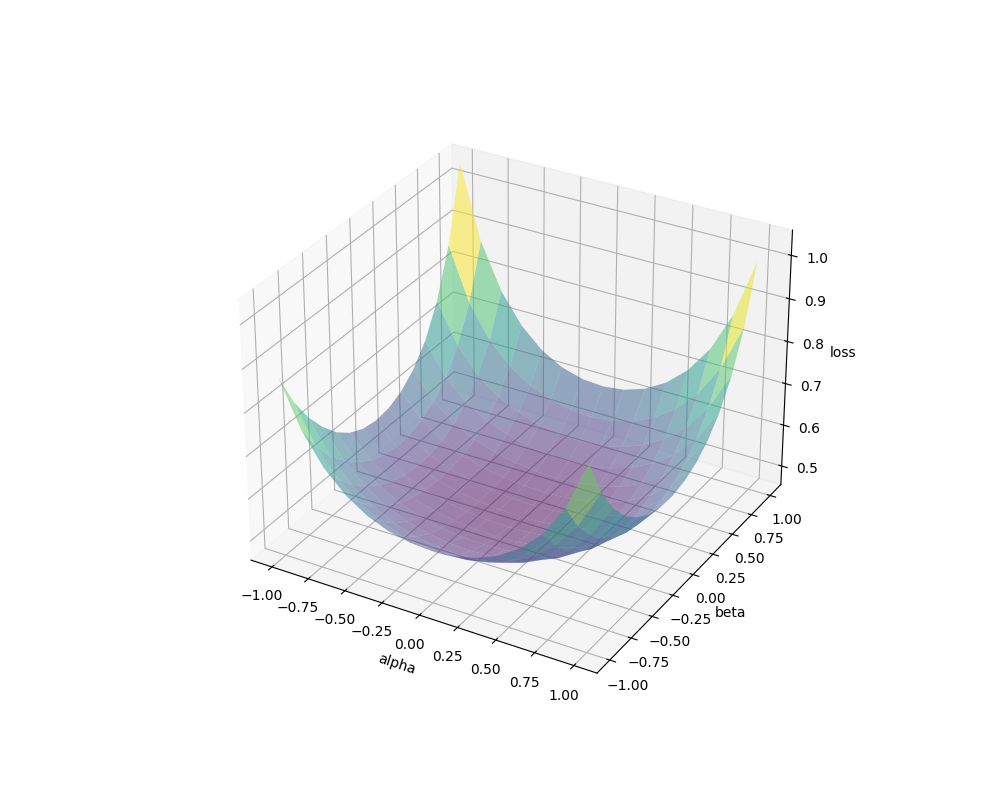
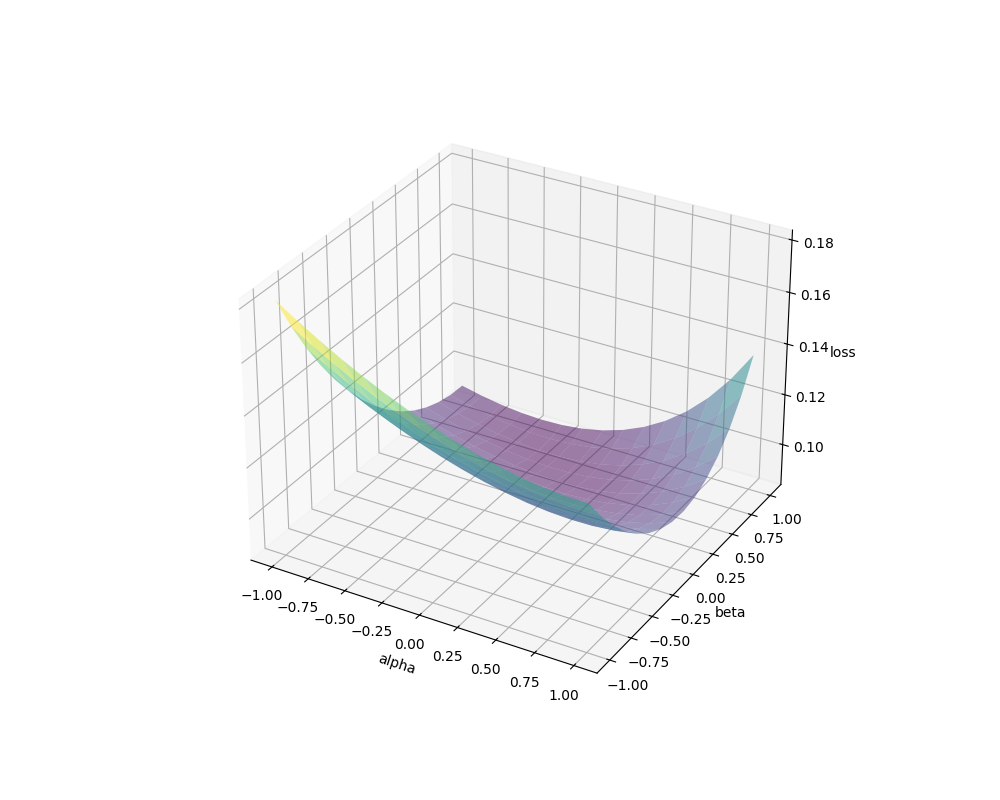
custom dir, and traj plot, but looks very off

diff --git a/src/landscape.py b/src/landscape.py
@@ -50,18 +50,26 @@ class Landscape:
         self,
         dataloder: data.DataLoader,
         mode: str = "filter",
+        custom_dirs: Optional[Tuple[torch.Tensor, torch.Tensor]] = None,
         resolution: int = 10,
         bounds: Tuple[float, float] = (-1.0, 1.0),
         device: Optional[str] = None,
         print_every: Optional[int] = None,
-    ) -> Mesh:
+    ) -> Tuple[Mesh, Optional[np.ndarray]]:
+
+        mode = mode.lower().strip()
+        dir1, dir2 = torch.empty(0), torch.empty(0)
+        trajectory = None
 
         if mode == "filter":
             dir1, dir2 = self.filter_norm()
         elif mode == "pca":
-            dir1, dir2 = self.pca()
+            dir1, dir2, trajectory = self.pca()
+        elif mode == "custom":
+            assert custom_dirs is not None
+            dir1, dir2 = custom_dirs
         else:
-            raise RuntimeError()
+            raise ValueError(f"Invalid mode: {mode}")
 
         x_coord = torch.linspace(*bounds, steps=resolution)
         y_coord = torch.linspace(*bounds, steps=resolution)
@@ -86,8 +94,13 @@ class Landscape:
 
         X, Y, Z = X.numpy(), Y.numpy(), Z.numpy()
         if self.write:
-            self.write_file((X, Y, Z), self.file_path, verbose=bool(print_every))
-        return X, Y, Z
+            self.write_file(
+                (X, Y, Z),
+                trajectory=trajectory,
+                file_path=self.file_path,
+                verbose=bool(print_every),
+            )
+        return (X, Y, Z), trajectory
 
     def compute_loss(
         self,
@@ -149,18 +162,24 @@ class Landscape:
 
             return torch.cat(dir1), torch.cat(dir2)
 
-    def pca(self) -> Tuple[torch.Tensor, torch.Tensor]:
+    def pca(self) -> Tuple[torch.Tensor, torch.Tensor, np.ndarray]:
         assert self.trajectory is not None
         diff_matrix = self.trajectory - self.flat_parameters()
         pca = PCA(n_components=2)
-        pca.fit(diff_matrix.numpy())
+        trajectory = pca.fit_transform(diff_matrix.numpy())
 
-        return torch.from_numpy(pca.components_[0]), torch.from_numpy(
-            pca.components_[1]
+        return (
+            torch.from_numpy(pca.components_[0]),
+            torch.from_numpy(pca.components_[1]),
+            trajectory.T,
         )
 
     def write_file(
-        self, mesh: Mesh, file_path: Optional[str] = None, verbose: bool = True
+        self,
+        mesh: Mesh,
+        trajectory: Optional[np.ndarray] = None,
+        file_path: Optional[str] = None,
+        verbose: bool = True,
     ) -> None:
         if file_path is None:
             file_path = "./landscape.h5"
@@ -174,6 +193,9 @@ class Landscape:
             mesh_group.create_dataset("X", data=X)
             mesh_group.create_dataset("Y", data=Y)
             mesh_group.create_dataset("Z", data=Z)
+
+            if trajectory is not None:
+                mesh_group.create_dataset("trajectory", data=trajectory)
 
         if verbose:
             print(f"{file_path} written")

diff --git a/src/plot.py b/src/plot.py
@@ -12,18 +12,23 @@ Mesh = Tuple[np.ndarray, np.ndarray, np.ndarray]
 
 class Plot:
 
-    def __init__(self, mesh: Mesh) -> None:
+    def __init__(self, mesh: Mesh, trajectory: Optional[np.ndarray] = None) -> None:
         self.mesh = mesh
+        self.trajectory = trajectory
 
     @staticmethod
     def from_files(mesh_path: str) -> "Plot":
+
+        trajectory = None
         with h5py.File(mesh_path, mode="r") as file:
             A = file["mesh"]["X"][:]
             B = file["mesh"]["Y"][:]
             Z = file["mesh"]["Z"][:]
+            if "trajectory" in file["mesh"]:
+                trajectory = file["mesh"]["trajectory"][:]
             assert A.shape == B.shape == Z.shape
 
-        return Plot((A, B, Z))
+        return Plot((A, B, Z), trajectory)
 
     def plot_surface_3D(
         self, show: bool = True, file_path: Optional[str] = None
@@ -44,14 +49,24 @@ class Plot:
             plt.close()
 
     def plot_contour(
-        self, levels: int = 20, show: bool = True, file_path: Optional[str] = None
+        self,
+        levels: int = 10,
+        plot_trajectory: bool = False,
+        show: bool = True,
+        file_path: Optional[str] = None,
     ) -> None:
 
         fig, ax = plt.subplots(figsize=(10, 8))
+        contour = ax.contourf(*self.mesh, cmap="viridis", levels=levels)
+        ax.clabel(contour, inline=1, fontsize=8)
+
+        if plot_trajectory:
+            assert self.trajectory is not None
+            x, y = self.trajectory
+            ax.plot(x, y, marker=".")
+
         plt.xlabel("alpha")
         plt.ylabel("beta")
-        contour = ax.contourf(*self.mesh, cmap="viridis", levels=levels)
-
         plt.colorbar(contour, ax=ax, label="loss")
 
         if file_path is not None:
